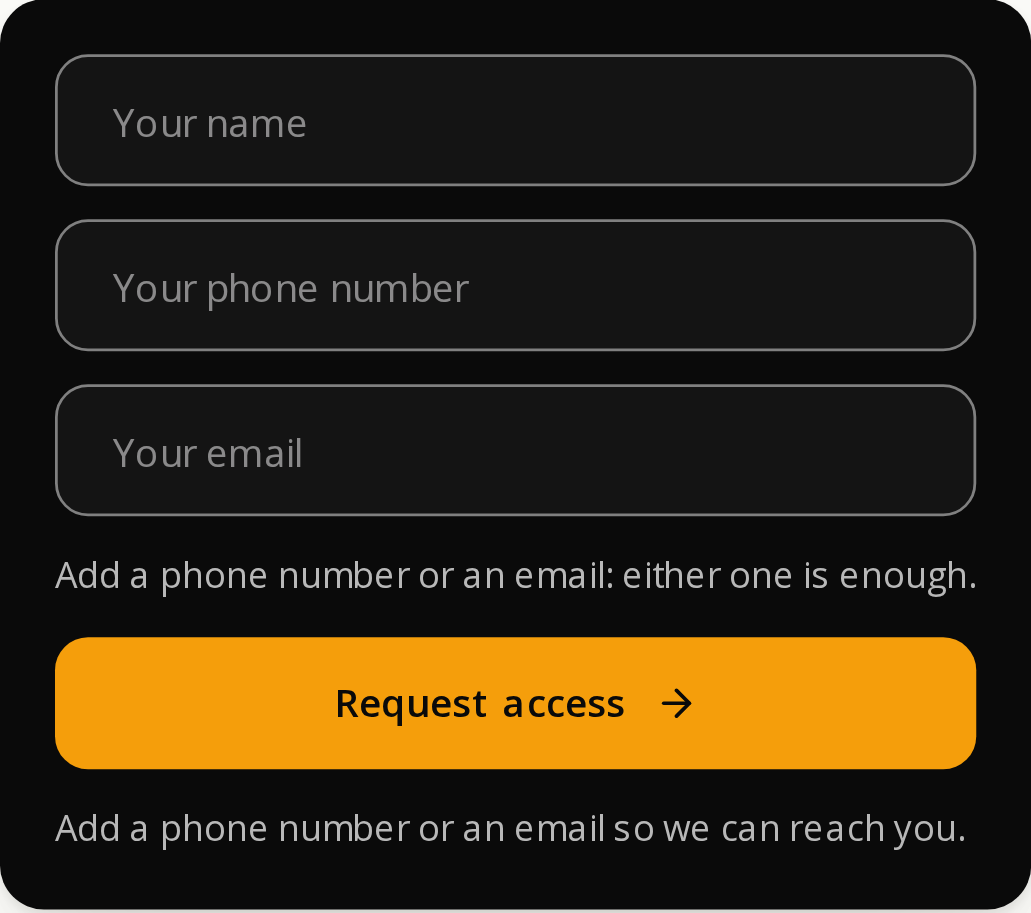
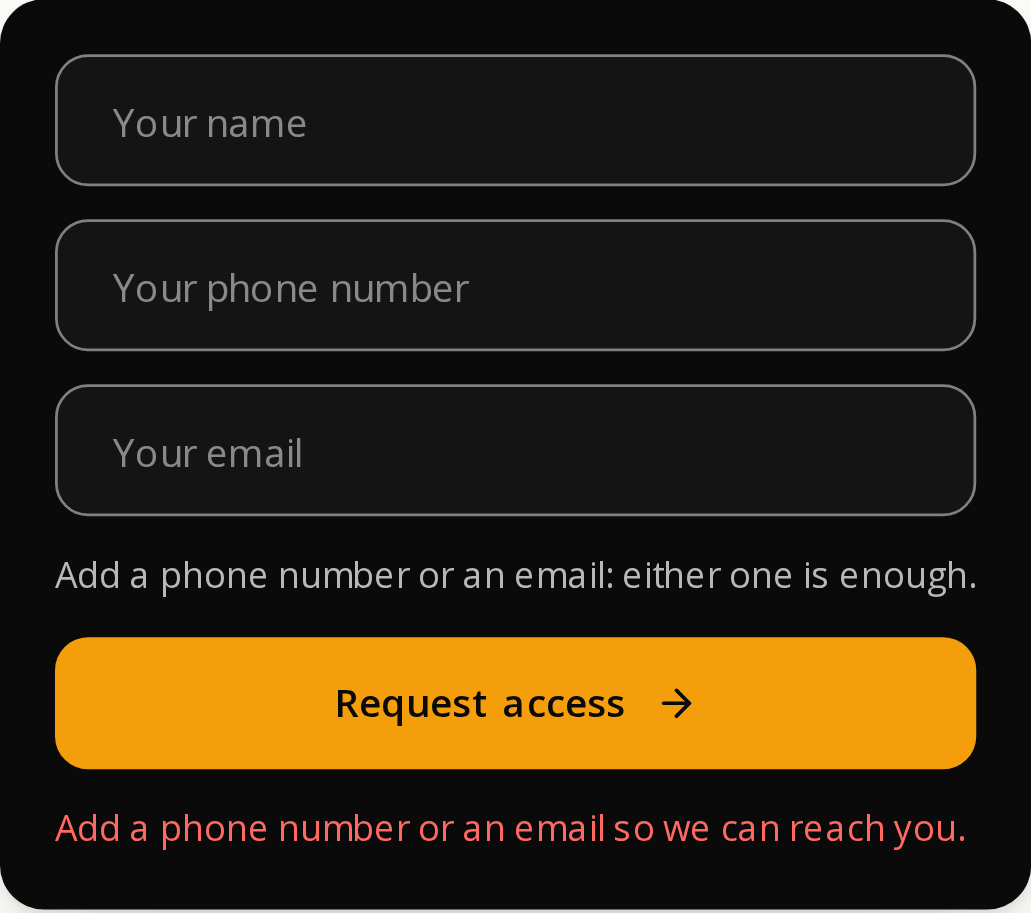
gy-31zk5: the failure alert takes the destructive token — a state this PR created
designer's eyes-on of ae2f3ddc6 required one change, and it is a defect THIS PR
introduced rather than one it inherited.

Before the hint existed, the failure alert was the only small grey line in the
form, so its mere appearance carried the failure. Adding a PERMANENT muted hint
above the button left the two identical in presentation — confirmed from the
rendered page, not the source: both rgb(184,184,184), both 13px, both weight
400. A visitor who submitted empty saw one more grey line appear below the
button, styled exactly like the line above it, with nothing saying it had not
worked.

The alert now takes --g-color-status-destructive-dark (#ff6961, already in
forge.css and until now unused on the site). Reuse only, no new token. The HINT
IS UNCHANGED — it is the aria-describedby anchor and must stay stable.

CONTRAST VERIFIED INDEPENDENTLY, not taken from the review: computed against the
background ACTUALLY BEHIND the alert, walked up the ancestor chain rather than
assumed. rgb(10,10,10) ground, alert 7.02:1 (matching designer's measurement to
two decimals), hint 9.98:1. AA and AAA.

COLOUR IS THE SIGHTED HALF ONLY, and the comment says so: it fixes nothing for a
screen reader, where the two sentences remain near-duplicates. That is content's
restring, and colour must never be the sole carrier of an error (WCAG 1.4.1) —
role="alert" already carries it non-visually.

NEW CONTROL, red-first: the alert must be visually distinct from the hint and
[…]

Changed region(s): [[0.0621, 0.8894, 0.9311, 0.92]]

diff --git a/tests/contact-rule-a11y.spec.ts b/tests/contact-rule-a11y.spec.ts
@@ -184,3 +184,69 @@ test('no placeholder is wider than the field that renders it', async ({ page }) 
   );
   expect(over, 'a clipped placeholder loses its tail, which is where the qualifying half of a sentence lives').toEqual([]);
 });
+
+/**
+ * 🔴 THE ALERT MUST NOT LOOK LIKE THE HINT — a state THIS BEAD CREATED.
+ *
+ * designer, eyes-on of ae2f3ddc6: before the hint existed, the failure alert was
+ * the only small grey line in the form, so its mere appearance carried the
+ * failure. Adding a PERMANENT muted hint above the button left the two
+ * byte-identical in presentation — both rgb(184,184,184), 13px, weight 400 — so
+ * a visitor who submitted empty saw one more grey line appear below the button,
+ * styled exactly like the one above it, and nothing said it had not worked.
+ *
+ * Nothing covered this because until the hint shipped there was only one
+ * sentence to see. Same shape as everything else on this bead: a state that
+ * could not exist before the fix, and therefore had no assertion pointed at it.
+ *
+ * It asserts the PROPERTY (the two are visually distinguishable, and the alert
+ * clears contrast) rather than the literal token, so a later palette change
+ * that keeps them distinct does not fail, and one that collapses them does.
+ * Contrast is computed against the BACKGROUND ACTUALLY BEHIND the alert, walked
+ * up the ancestor chain rather than assumed — a hard-coded ground would pass on
+ * a panel whose background moved.
+ */
+test('the failure alert is visually distinct from the permanent hint, and clears AA', async ({ page }) => {
+  await page.goto('/');
+  await page.waitForLoadState('networkidle');
+  const opened = await openCluster(page, 'hero');
+  expect(opened.revealed, 'positive control: the hero capture must open, or there is no alert to judge').toBe(true);
+
+  const panel = page.locator('[role="group"][aria-label="Request access"]').first();
+  await panel.locator('button[type="submit"]').click();
+  await page.waitForTimeout(500);
+
+  const m = await page.evaluate(() => {
+    const form = document.querySelector('[role="group"][aria-label="Request access"] form')!;
+    const alert = form.querySelector('[role="alert"]');
+    if (!alert) return null;
+    const email = form.querySelector('input[type="email"]') as HTMLInputElement;
+    const hint = document.getElementById(email.getAttribute('aria-describedby')!)!;
+    let bg: string | null = null;
+    let n: Element | null = alert;
+    while (n && n !== document.documentElement) {
+      const c = getComputedStyle(n).backgroundColor;
+      if (c && c !== 'rgba(0, 0, 0, 0)' && c !== 'transparent') { bg = c; break; }
+      n = n.parentElement;
+    }
+    const parse = (s: string) => s.match(/\d+(\.\d+)?/g)!.slice(0, 3).map(Number);
+    const lum = (rgb: number[]) => {
+      const f = (v: number) => { v /= 255; return v <= 0.03928 ? v / 12.92 : Math.pow((v + 0.055) / 1.055, 2.4); };
+      return 0.2126 * f(rgb[0]) + 0.7152 * f(rgb[1]) + 0.0722 * f(rgb[2]);
+    };
+    const ratio = (a: number[], b: number[]) => {
+      const L1 = lum(a), L2 = lum(b);
+      const [hi, lo] = L1 > L2 ? [L1, L2] : [L2, L1];
+      return (hi + 0.05) / (lo + 0.05);
+    };
+    const ac = getComputedStyle(alert).color, hc = getComputedStyle(hint).color;
+    return { ac, hc, bg, contrast: bg ? ratio(parse(ac), parse(bg)) : null };
+  });
+
+  expect(m, 'positive control: submitting with nothing filled must raise the alert').not.toBeNull();
+  expect(
+    m!.ac,
+    'the failure alert renders in the SAME colour as the permanent hint above it, so a failed submit is indistinguishable from guidance',
+  ).not.toBe(m!.hc);
+  expect(m!.contrast, `the alert must clear AA on the ground behind it (${m!.bg})`).toBeGreaterThanOrEqual(4.5);
+});

diff --git a/src/components/WaitlistForm.tsx b/src/components/WaitlistForm.tsx
@@ -202,7 +202,27 @@ export function WaitlistForm() {
         <span
           role="alert"
           className="text-[13px]"
-          style={{ color: "var(--g-color-grey-muted-fg-dark)", fontFamily: "var(--font-sans)" }}
+          // 🔴 DESTRUCTIVE, NOT MUTED — and this PR is what made that necessary
+          // (designer eyes-on of ae2f3ddc6, 2026-09-18).
+          //
+          // Before the hint existed, this was the only small grey line in the
+          // form, so its mere appearance carried the failure. Now a PERMANENT
+          // muted hint sits above the button saying almost the same words, and
+          // measured from the rendered page the two were byte-identical in
+          // presentation: both rgb(184,184,184), both 13px, both weight 400. A
+          // visitor who submitted empty saw one more grey line appear below the
+          // button, styled exactly like the grey line above it, and nothing
+          // said it had not worked.
+          //
+          // --g-color-status-destructive-dark (#ff6961, forge.css) had no user
+          // on this site until now; designer measured it at 7.02:1 on the
+          // #0a0a0a ground behind this span, which clears AA and AAA.
+          //
+          // 🔴 COLOUR IS THE SIGHTED HALF ONLY. It fixes nothing for a screen
+          // reader, where the two sentences are still near-duplicates — that is
+          // content's restring, and colour must never be the sole carrier of an
+          // error (WCAG 1.4.1). role="alert" already carries it non-visually.
+          style={{ color: "var(--g-color-status-destructive-dark)", fontFamily: "var(--font-sans)" }}
         >
           Add a phone number or an email so we can reach you.
         </span>
